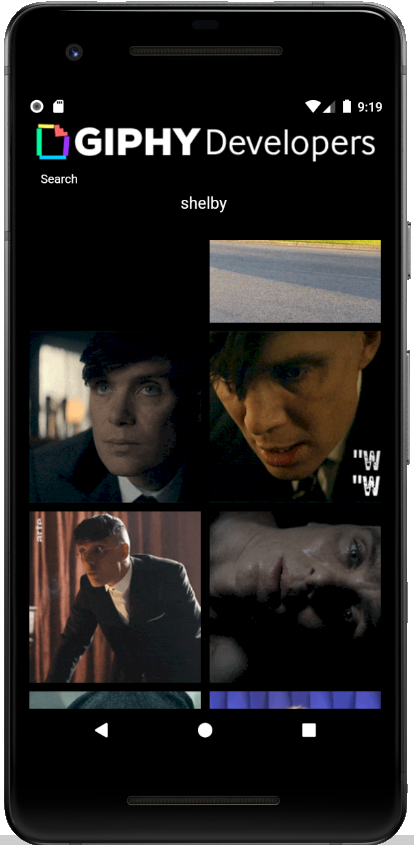
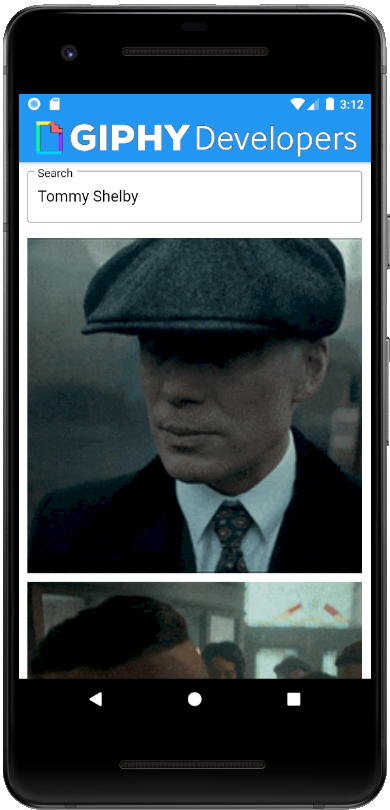
Update 09/09/20

diff --git a/lib/ui/home_page.dart b/lib/ui/home_page.dart
@@ -44,11 +44,11 @@ class _HomePageState extends State<HomePage> {
   Widget build(BuildContext context) {
     return Scaffold(
       appBar: AppBar(
-        backgroundColor: Colors.black,
+        backgroundColor: Colors.blue,
         title: Image.network("https://developers.giphy.com/static/img/dev-logo-lg.7404c00322a8.gif"),
         centerTitle: true,
       ),
-      backgroundColor: Colors.black,
+      backgroundColor: Colors.white,
       body: Column(
         children: <Widget>[
           Padding(
@@ -56,11 +56,11 @@ class _HomePageState extends State<HomePage> {
             child: TextField(
               decoration: InputDecoration(
                   labelText: "Search",
-                  labelStyle: TextStyle(color: Colors.white),
+                  labelStyle: TextStyle(color: Colors.black),
                   border: OutlineInputBorder()
               ),
-              style: TextStyle(color: Colors.white, fontSize: 18.0),
-              textAlign: TextAlign.center,
+              style: TextStyle(color: Colors.black, fontSize: 18.0),
+              textAlign: TextAlign.start,
               onSubmitted: (text){
                 setState(() {
                   _search = text;
@@ -109,7 +109,7 @@ class _HomePageState extends State<HomePage> {
     return GridView.builder(
         padding: EdgeInsets.all(10.0),
         gridDelegate: SliverGridDelegateWithFixedCrossAxisCount(
-          crossAxisCount: 2,
+          crossAxisCount: 1,
           crossAxisSpacing: 10.0,
           mainAxisSpacing: 10.0
         ),
@@ -138,9 +138,9 @@ class _HomePageState extends State<HomePage> {
                 child: Column(
                   mainAxisAlignment: MainAxisAlignment.center,
                   children: <Widget>[
-                    Icon(Icons.add, color: Colors.white, size: 70.0,),
+                    Icon(Icons.add, color: Colors.blue, size: 70.0,),
                     Text("More",
-                      style: TextStyle(color: Colors.white, fontSize: 22.0),)
+                      style: TextStyle(color: Colors.blue, fontSize: 22.0),)
                   ],
                 ),
                 onTap: (){

diff --git a/lib/ui/gif_page.dart b/lib/ui/gif_page.dart
@@ -11,8 +11,7 @@ class GifPage extends StatelessWidget {
   Widget build(BuildContext context) {
     return Scaffold(
       appBar: AppBar(
-        title: Text(_gifData["title"]),
-        backgroundColor: Colors.black,
+        backgroundColor: Colors.blue,
         actions: <Widget>[
           IconButton(
             icon: Icon(Icons.share),
@@ -22,10 +21,18 @@ class GifPage extends StatelessWidget {
           )
         ],
       ),
-      backgroundColor: Colors.black,
-      body: Center(
-        child: Image.network(_gifData["images"]["fixed_height"]["url"]),
-      ),
+      backgroundColor: Colors.white,
+      body: Column(
+        children: <Widget>[
+          Padding(
+            padding: EdgeInsets.fromLTRB(10, 100, 10, 40),
+            child: Text(_gifData["title"], style: TextStyle(fontSize: 20))
+          ),
+          Center(
+            child: Image.network(_gifData["images"]["fixed_height"]["url"]),
+          )
+        ],
+      )
     );
   }
 }

diff --git a/lib/main.dart b/lib/main.dart
@@ -1,7 +1,13 @@
 import 'package:flutterapp/ui/home_page.dart';
 import 'package:flutter/material.dart';
+import 'package:flutter/services.dart';
 
 void main() {
+  SystemChrome.setSystemUIOverlayStyle(SystemUiOverlayStyle(
+      statusBarColor: Colors.transparent,
+      statusBarBrightness: Brightness.light)
+  );
+
   runApp(MaterialApp(
     debugShowCheckedModeBanner: false,
     home: HomePage(),
